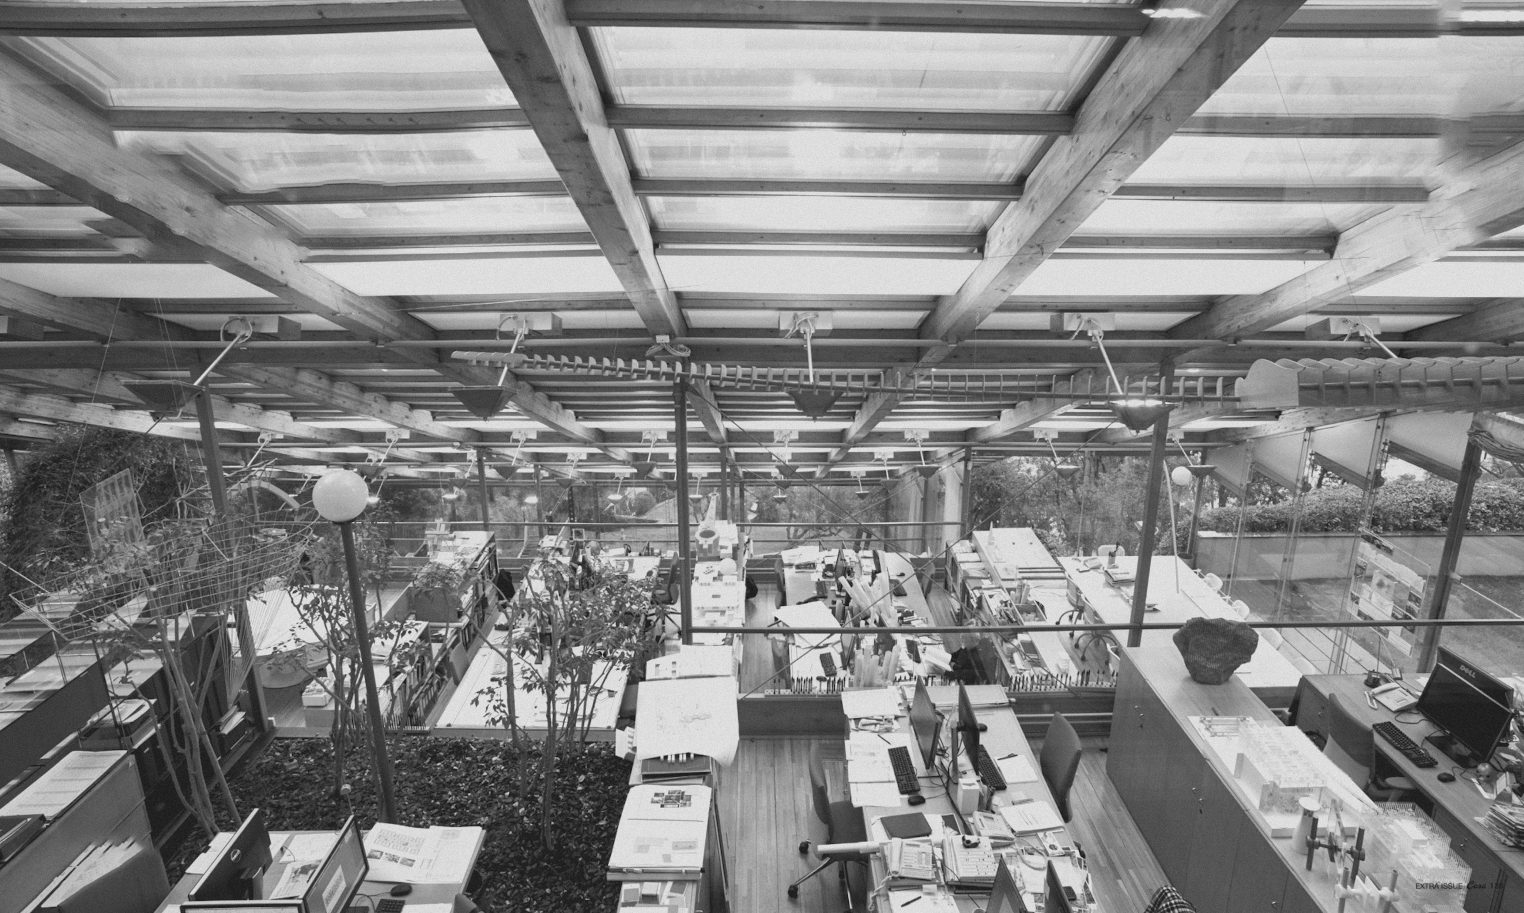
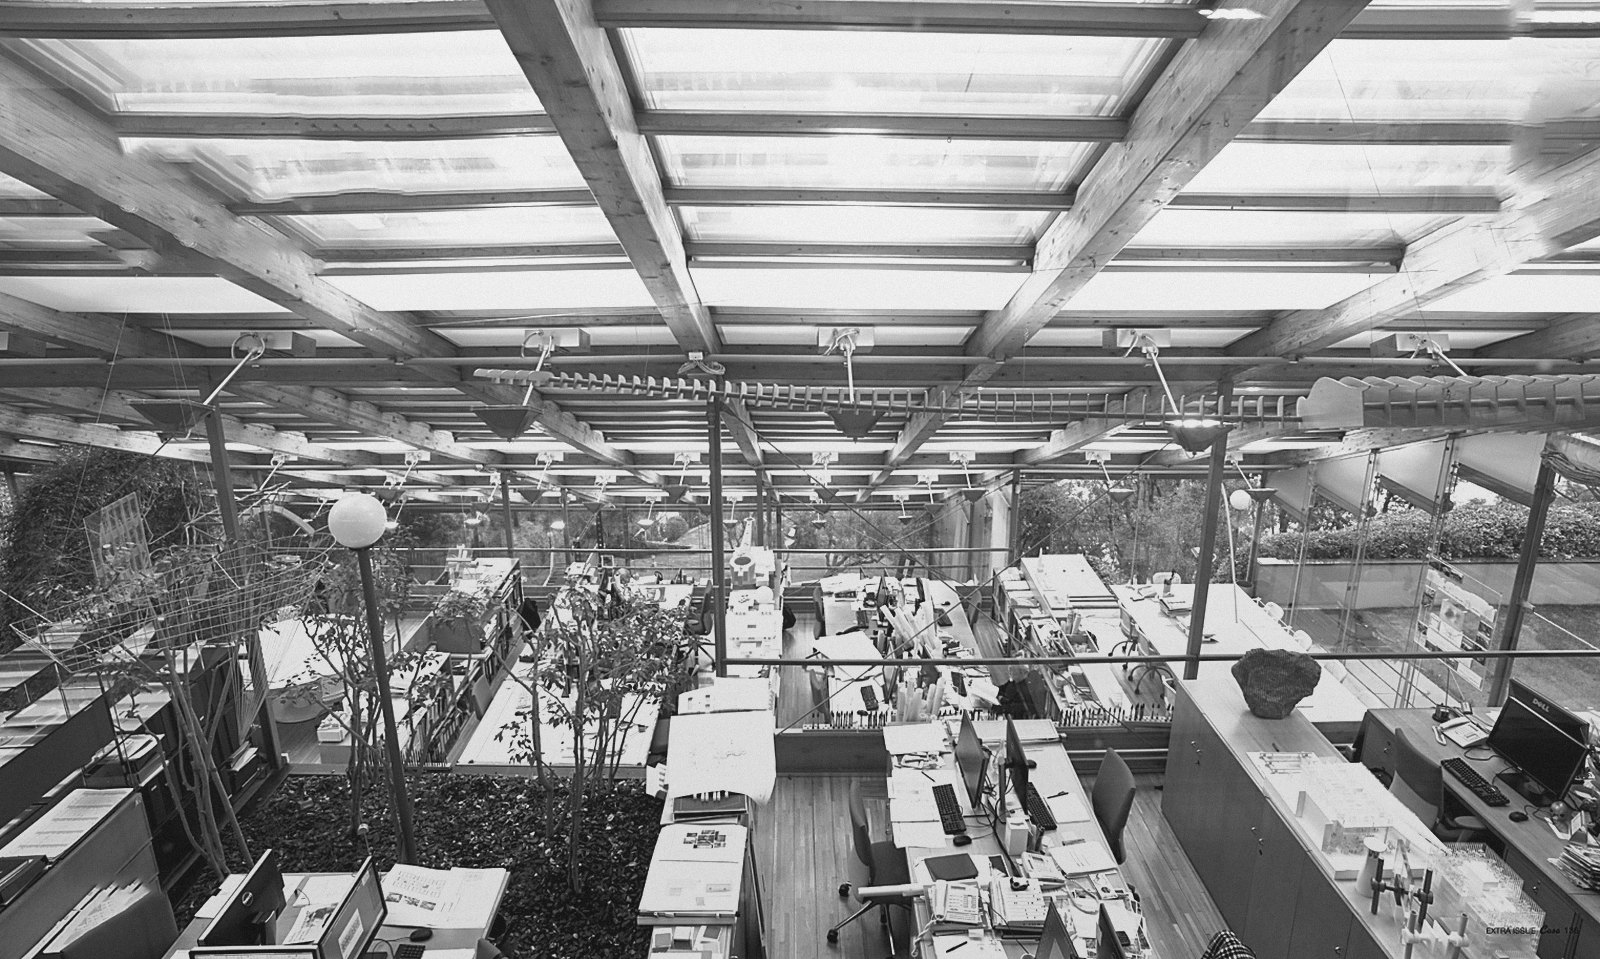
Company写真をFigma準拠の構図・階調に補正、不要な写真を削除
- 情報パネルを rgba(255,255,255,.8) に(Figma 408:25739)。板に見せず
  写真が透ける
- 構図を Figma の実配置から算出。01(office x-44 y-174/写真1477x1097)→
  50%/53%、02→55%/48%、06→51%/52%。03〜05はFigmaが右半分での使用の
  ため全面の実データが無く、水平を保つ帯を選択
- 寄りすぎ解消: ケンバーンズを全て scale 1.00 起点・最大+2.2%に抑制
- 階調を details.co.jp 参照で作り直し。密度を持たせつつハイライトは
  ショルダーで柔らかく、黒は p1 21〜36 で潰さない。見出しと情報パネルが
  乗る上部は +7.5% 明るく、足元は -4.5% 締める縦ランプで可読性を確保
- 解像度: 大きい素材は2400px、小さい素材は1600pxへLANCZOS+アンシャープ
- 02 は Figma のコンプに合わせて左右反転を素材に焼き込み
- 未参照になった assets/images/company-office.jpg を削除

diff --git a/css/style.css b/css/style.css
@@ -2805,45 +2805,53 @@ body.fv-in .site-header--brushup .site-header__inner { opacity: 1; transform: no
   transform: var(--kb-b);
   transition: transform 6.5s linear;
 }
+/* 寄りすぎないよう、動きは全て scale 1.00 起点。最大でも +2.2% に留める
+   (Figma は写真が引きの構図なので、拡大で画角を削らない)。 */
 /* 01 ほとんど静止 */
 .company--figma .cmp__slide:nth-child(1) {
   --kb-a: translate3d(0, 0, 0) scale(1.000);
-  --kb-b: translate3d(-5px, 0, 0) scale(1.014);
+  --kb-b: translate3d(-5px, 0, 0) scale(1.012);
 }
 /* 02 わずかに横へ流れる */
 .company--figma .cmp__slide:nth-child(2) {
-  --kb-a: translate3d(10px, 0, 0) scale(1.010);
-  --kb-b: translate3d(-8px, 0, 0) scale(1.028);
+  --kb-a: translate3d(8px, 0, 0) scale(1.000);
+  --kb-b: translate3d(-8px, 0, 0) scale(1.016);
 }
 /* 03 ゆっくり引く */
 .company--figma .cmp__slide:nth-child(3) {
-  --kb-a: translate3d(0, -4px, 0) scale(1.040);
-  --kb-b: translate3d(0, 3px, 0) scale(1.006);
+  --kb-a: translate3d(0, -3px, 0) scale(1.022);
+  --kb-b: translate3d(0, 3px, 0) scale(1.000);
 }
 /* 04 わずかに縦へ */
 .company--figma .cmp__slide:nth-child(4) {
-  --kb-a: translate3d(0, -10px, 0) scale(1.008);
-  --kb-b: translate3d(0, 6px, 0) scale(1.026);
+  --kb-a: translate3d(0, -8px, 0) scale(1.000);
+  --kb-b: translate3d(0, 6px, 0) scale(1.014);
 }
 /* 05 静かに寄る */
 .company--figma .cmp__slide:nth-child(5) {
   --kb-a: translate3d(-4px, 0, 0) scale(1.000);
-  --kb-b: translate3d(4px, 0, 0) scale(1.032);
+  --kb-b: translate3d(4px, 0, 0) scale(1.018);
 }
 /* 06 ほぼ静止。終わりの値を 01 の入りに近づけて 6→1 を繋ぐ */
 .company--figma .cmp__slide:nth-child(6) {
-  --kb-a: translate3d(3px, 0, 0) scale(1.012);
-  --kb-b: translate3d(-2px, 0, 0) scale(1.018);
+  --kb-a: translate3d(3px, 0, 0) scale(1.008);
+  --kb-b: translate3d(-2px, 0, 0) scale(1.000);
 }
 
-/* --- 写真ごとの構図。中央 crop にせず、情報パネルが乗る左側に
-       余白が来るよう寄せる(建築の水平垂直は保つ) --- */
-.company--figma .cmp__slide:nth-child(1) img { object-position: 62% center; }
-.company--figma .cmp__slide:nth-child(2) img { object-position: 55% center; }
-.company--figma .cmp__slide:nth-child(3) img { object-position: 60% 45%; }
-.company--figma .cmp__slide:nth-child(4) img { object-position: 58% center; }
-.company--figma .cmp__slide:nth-child(5) img { object-position: 52% 55%; }
-.company--figma .cmp__slide:nth-child(6) img { object-position: 50% 60%; }
+/* --- 写真ごとの構図。
+   01/02/06 は Figma に全面配置の実データがあるので、その配置から
+   「セクション中心が写真のどこに当たるか」を割り出して写している。
+     01 (408:24418 office x-44 y-174 / 写真 1477x1097) → 50% / 53%
+     02 (408:25730 office x-214 y-39 / 写真 1711x921)  → 55% / 48%
+     06 (408:29664 office x-265 y-126 / 写真 1505x902) → 51% / 52%
+   03/04/05 は Figma では右半分(628x813)の縦位置での使用なので全面の
+   実データが無い。建築の水平を保ったまま被写体が残る帯を選ぶ。 --- */
+.company--figma .cmp__slide:nth-child(1) img { object-position: 50% 53%; }
+.company--figma .cmp__slide:nth-child(2) img { object-position: 55% 48%; }
+.company--figma .cmp__slide:nth-child(3) img { object-position: 50% 45%; }
+.company--figma .cmp__slide:nth-child(4) img { object-position: 50% 48%; }
+.company--figma .cmp__slide:nth-child(5) img { object-position: 50% 46%; }
+.company--figma .cmp__slide:nth-child(6) img { object-position: 51% 52%; }
 
 /* --- 情報パネルの登場。下からのフェードインにはしない --- */
 .company--figma .cmp__label,
@@ -2910,7 +2918,9 @@ body.fv-in .site-header--brushup .site-header__inner { opacity: 1; transform: no
   width: calc(var(--u) * 680);
   height: calc(var(--u) * 388);
   padding: calc(var(--u) * 24);
-  background: #fff;
+  /* Figma 408:25739: rgba(255,255,255,0.8)。写真が透けることで
+     パネルが板に見えず、写真が主役のまま情報が乗る。 */
+  background: rgba(255, 255, 255, .8);
   display: flex;
   align-items: center;
   justify-content: center;
